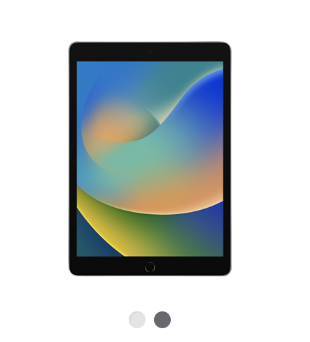
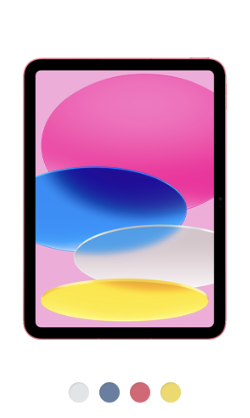
new pics and some small other changes in iPad

diff --git a/Apple_store/ipad.html b/Apple_store/ipad.html
@@ -47,7 +47,7 @@
     <!-- <a href="#" class="logo"><i class="fa-solid fa-magnifying-glass"></i></a> -->
     <a href="#" class="logo"><i class="fa-solid fa-bag-shopping"></i></a>
   </header>
-
+  
 
   <!-- Ipad section -->
   <section class="about_ipad">
@@ -76,7 +76,64 @@
 
   <!-- Products iPads -->
 
-    <section class="products" id="products_ipad">
+  <section>
+    <h2 class="table-headline">Vilken iPad passar dig bäst?</h2>
+    
+    <div class="phone-table">
+      <div class="col col1">
+        <div class="thead">
+          <img src="images/ipad_images/1001.png" alt="">
+          <h4>Nyhet</h4>
+          <h2>iPad Pro</h2>
+          <p>Den bästa upplevelsen av iPad<br>med den mest avancerade tekniken.</p>
+          <p class="price">Från 11 995 kr</p>
+          <button>Köp</button><br>
+          <a href="">Läs mer <i class="fa-solid fa-angle-right"></i></a>
+        </div>
+      </div>
+
+      <div class="col col3">
+        <div class="thead">
+          <img src="images/ipad_images/1002.png" alt="">
+          <h4>Nyhet</h4>
+          <h2>iPad Air</h2>
+          <p>Tung prestanda i en<br>tunn och lätt design.</p>
+          <p class="price">Från 8 795 kr</p>
+          <button>Köp</button><br>
+          <a href="">Läs mer <i class="fa-solid fa-angle-right"></i></a>
+        </div>
+      </div>
+
+      <div class="col col2">
+        <div class="thead"><img src="images/ipad_images/1003.png" alt="">
+          <h4>Nyhet</h4>
+          <h2>iPad</h2>
+          <p>Helt nya, färgglada iPad <br>för det du gör varje dag.</p>
+          <p class="price">Från 8 995 kr</p>
+          <button>Köp</button><br>
+          <a href="">Läs mer <i class="fa-solid fa-angle-right"></i></a>
+        </div>
+      </div>
+
+      <div class="col col4">
+        <div class="thead">
+          <img src="images/ipad_images/1004.png" alt="">
+            <h4>Nyhet</h4>
+            <h2>iPad mini</h2>
+            <p>Hela upplevelsen med iPad<br>designad för att passa i en hand.</p>
+            <p class="price">Från 6 495 kr</p>
+            <button>Köp</button><br>
+            <a href="">Läs mer <i class="fa-solid fa-angle-right"></i></a>
+        </div> 
+      </div>
+    </div>
+    <ul>
+      <li><a href="">Jämför alla iPad-modeller<i class="fa-solid fa-angle-right"></i></a></li>
+      <li><a href="">Köp iPad<i class="fa-solid fa-angle-right"></i></a></li>
+    </ul>
+  </section>
+
+    <!-- <section class="products" id="products_ipad">
       <div class="heading">
         <h2 class="ipad_text">Vilken iPad passar dig bäst?</h2>
       </div>
@@ -126,7 +183,7 @@
     
         <div class="box">
           <div class="image">
-            <img src="/Apple_store/images/ipad_images/ipad11.png" alt="">
+            <img src="/Apple_store/images/ipad_images/ipad111.png" alt="">
           </div>
           <div class="content">
     
@@ -135,26 +192,6 @@
             <span class="info_ipad">(tionde generationen) <br> <br> Helt nya, färgglada iPad för det du gör varje dag.<br><br></span>
     
             <span class="price">Från 6 595 kr</span>
-    
-            <button class="buy">Köp</button>
-    
-            <li class="link"><a href="#">Läs mer <i class="fa-solid fa-chevron-right"></i></a></li>
-    
-            <br>
-          </div>
-        </div>
-    
-        <div class="box">
-          <div class="image">
-            <img src="/Apple_store/images/ipad_images/ipad12.png" alt="">
-          </div>
-          <div class="content">
-    
-            <h3>iPad</h3>
-
-            <span class="info_ipad">(nionde generationen) <br> <br> Allt det viktiga i vår mest prisvärda iPad.<br><br></span>
-    
-            <span class="price">Från 4 995 kr</span>
     
             <button class="buy">Köp</button>
     
@@ -184,15 +221,16 @@
           </div>
         </div>
         
-      </section>
-      <div class="compare_ipad">
+      </section> -->
+
+      <!-- <div class="compare_ipad">
         <div class="first_text">
           <a href="#">Jämför alla iPad-modeller <i class="fa-solid fa-chevron-right"></i></a>
         </div>
         <div class="second_text">
           <a href="#">Köp iPad <i class="fa-solid fa-chevron-right"></i></a>
         </div>
-      </div>
+      </div> -->
 
   <!-- Presentcard section -->
   
